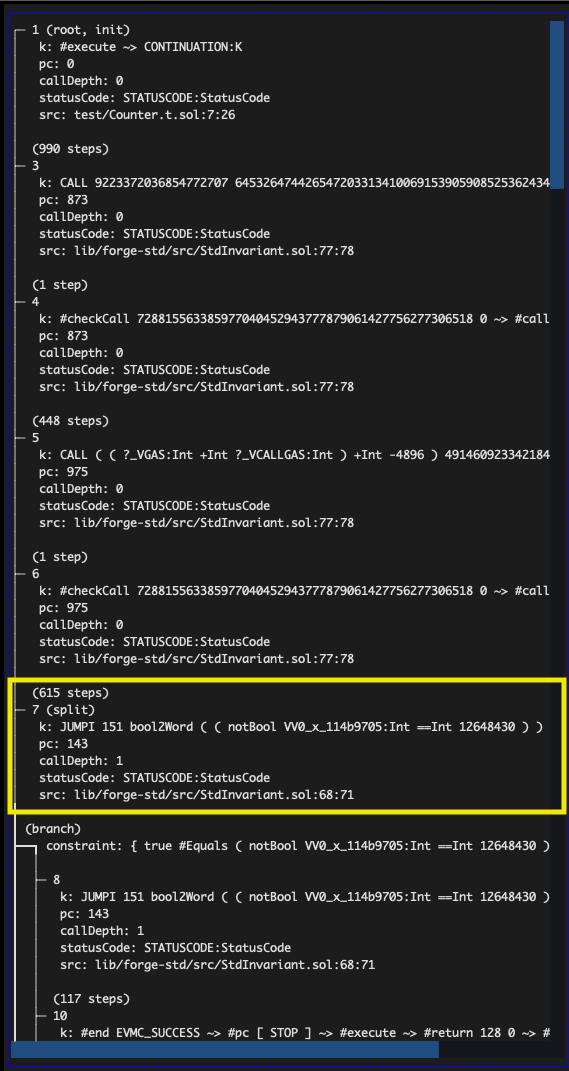
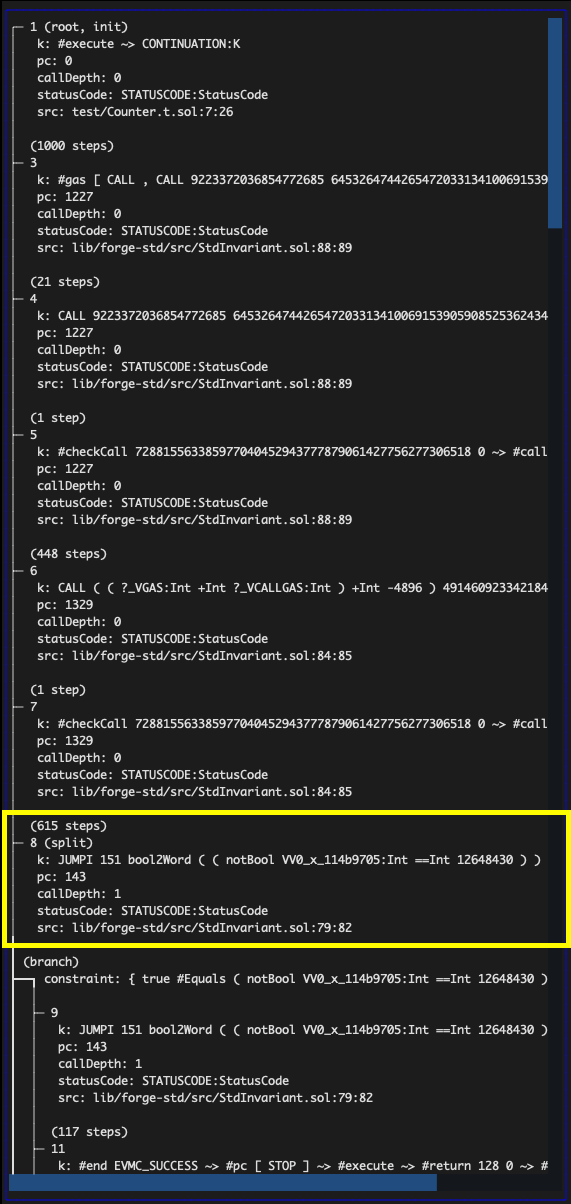
updating screenshots and commands

diff --git a/guides/kevm-foundry-integration-example/k-control-flow-graph-kcfg.md b/guides/kevm-foundry-integration-example/k-control-flow-graph-kcfg.md
@@ -24,18 +24,18 @@ The section on the left represents the **KCFG** of the execution in a minimal wa
 
 You can display all hidden nodes using the hotkey `H`. We’ll discuss that shortly. For now, let’s understand how to read a node. Notice the node highlighted in yellow. The first row `(615 steps)` represents the number of steps the prover has executed since the previous node.
 
-The `7 (split)` indicates the node `id`, `7`, and the node type `(split)`. The main node types are:
+The `8 (split)` indicates the node `id`, `8`, and the node type `(split)`. The main node types are:
 
-* `init` - the initial node, or the root
-* `leaf` - a node that has no children
-* `split` - a node that branches
+* `init` - The initial node, or the root
+* `leaf` - A node that has no children or successors
+* `split` - A node that branches
 
 Nodes can also be:
 
-* `expanded` - marking that the node has been visited and processed
-* `target` - used to mark the destination term that needs to be reached
-* `frontier` - a node that has been discovered but not yet executed
-* `stuck` - a node from which the prover was not able to progress and got stuck (most commonly because it doesn’t know what to do and it needs a simplification lemma)
+* `expanded` - A node that the node has been visited and processed
+* `target` - A node representing the final state the prover aims to achieve
+* `terminal` - A node that finished the execution of a `terminal rule`
+* `frontier` - A node that has been discovered but not yet executed
 
 Following the node `id`, there is a summary of the node:
 
@@ -43,7 +43,7 @@ Following the node `id`, there is a summary of the node:
 * `pc: 143` - represents the current value of the EVM program counter
 * `callDepth: 1` - represents the current call stack depth ([more information here](https://docs.soliditylang.org/en/v0.8.17/security-considerations.html#call-stack-depth)).
 * `statusCode: STATUSCODE:StatusCode` - shows the current status code. Here, `STATUSCODE` is the name of the symbolic variable, and `:StatusCode` shows the sort of the variable ([more information here](https://github.com/runtimeverification/evm-semantics/blob/master/include/kframework/network.md#evm-status-codes)).
-* `src: lib/forge-std/src/StdInvariant.sol:68:71` - nodes can point to the Solidity source file, line, and column to which they belong.
+* `src: lib/forge-std/src/StdInvariant.sol:79:82` - nodes can point to the Solidity source file, line, and column to which they belong.
 
 A branching always follows a split node. In **KCFG**s, branches are represented using nesting. In the highlighted node, the `k` field holds the value `k: JUMPI 151 bool2Word ( ( notBool VV0_x_114b9705:Int ==Int 12648430 ) )`. This indicates that the prover has identified a branching point. Here, `JUMPI` is an EVM opcode. `151` represents a jump destination, and `bool2Word ( notBool ( VV0_n_114b9705:Int ==Int 12648430 ) )` represents an equality check between the symbolic variable `VV0_n_114b9705` of sort `Int` and value `12648430` (the decimal value of `0xC0FFEE` from our `setNumber` function). The prover does not know if the `VV0` variable equals `12648430`, so it will branch and explore each possibility.
 
@@ -55,11 +55,11 @@ The `constraint` keyword highlights the path the prover continues the execution.
 
 * The execution of the branch is completed, and the leaf unifies with the target node.
 
-<figure><img src="../../.gitbook/assets/Node42.png" alt=""><figcaption><p>Leaf unification with the target node</p></figcaption></figure>
+<figure><img src="../../.gitbook/assets/Node43.png" alt=""><figcaption><p>Leaf unification with the target node</p></figcaption></figure>
 
-* The execution of the branch gets stuck, in which case the node will be marked as `stuck`.
+* The execution of the branch halts.
 
-<figure><img src="../../.gitbook/assets/image (9).png" alt=""><figcaption><p>Stuck node</p></figcaption></figure>
+<figure><img src="../../.gitbook/assets/halt.png" alt=""><figcaption><p>Execution Halted</p></figcaption></figure>
 
 ## Right section of KCFG
 
@@ -73,7 +73,7 @@ This section displays the selected node and any enabled or disabled options. You
 
 ### **The term view**
 
-This section displays the entire state of the Ethereum virtual machine in the current node as a **K** configuration, with each property depicted in a cell. For example, the program counter will be displayed as `<pc> 143 </pc>`, and the current hard fork will be displayed as `<schedule> LONDON </schedule>` ([more about the configuration can be found here](https://jellopaper.org/evm/#configuration)). Using the hotkey `M`, you can minimize the term by hiding some cells in the configuration.
+This section displays the entire state of the Ethereum virtual machine in the current node as a **K** configuration, with each property depicted in a cell. For example, the current hard fork will be displayed as `<schedule> SHANGHAI </schedule>` ([more about the configuration can be found here](https://jellopaper.org/evm/#configuration)). Using the hotkey `M`, you can minimize the term by hiding some cells in the configuration.
 
 <figure><img src="../../.gitbook/assets/Termview.png" alt=""><figcaption><p>The term view</p></figcaption></figure>
 
@@ -101,6 +101,6 @@ The custom view can be enabled of disabled using the hotkey `V`.
 
 ## Back to investigating the failed proof
 
-Now, let’s find out why the proof is failing. After looking at all the nodes, we can see that there is a node marked as `stuck` with `id` `3e9ff7..6eba6e`. At the top of the term view, highlighted in yellow, we can see the `#halt` production in the `<k>` cell, indicating that the test execution has finished. Additionally, highlighted in red, the status code as `EVMC_REVERT`, meaning that the transaction has been reverted. At this point, we can look in the constraint view and identify that our function arguments, highlighted in orange, are exactly the ones required to trigger the revert in `setFunction`.
+Now, let’s find out why the proof is failing. At the top of the term view, highlighted in yellow, we can see the `#halt` production in the `<k>` cell, indicating that the test execution has finished. Additionally, highlighted in red, the status code as `EVMC_REVERT`, meaning that the transaction has been reverted. At this point, we can look in the constraint view and identify that our function arguments, highlighted in orange, are exactly the ones required to trigger the revert in `setFunction`.
 
-<figure><img src="../../.gitbook/assets/Screenshot 2023-05-12 at 10.50.33.png" alt=""><figcaption><p>Examining the stuck node</p></figcaption></figure>
+<figure><img src="../../.gitbook/assets/haltrevert.png" alt=""><figcaption><p>Examining the last node</p></figcaption></figure>
